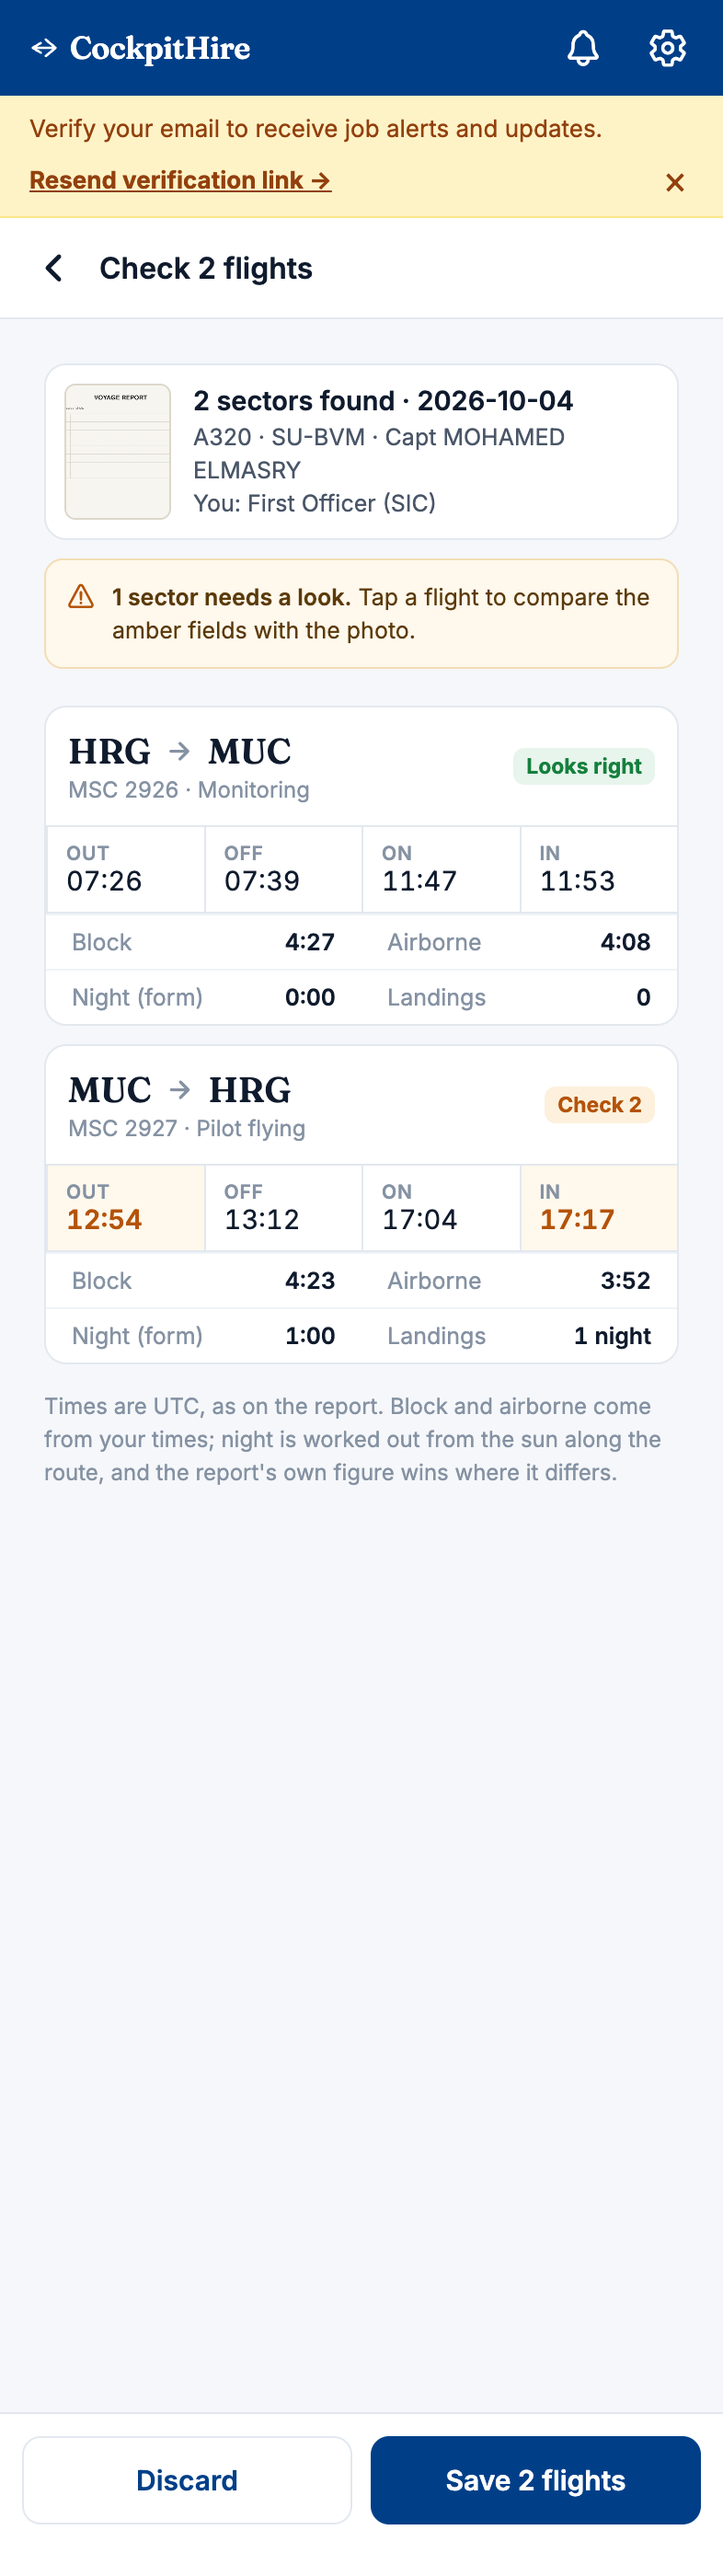
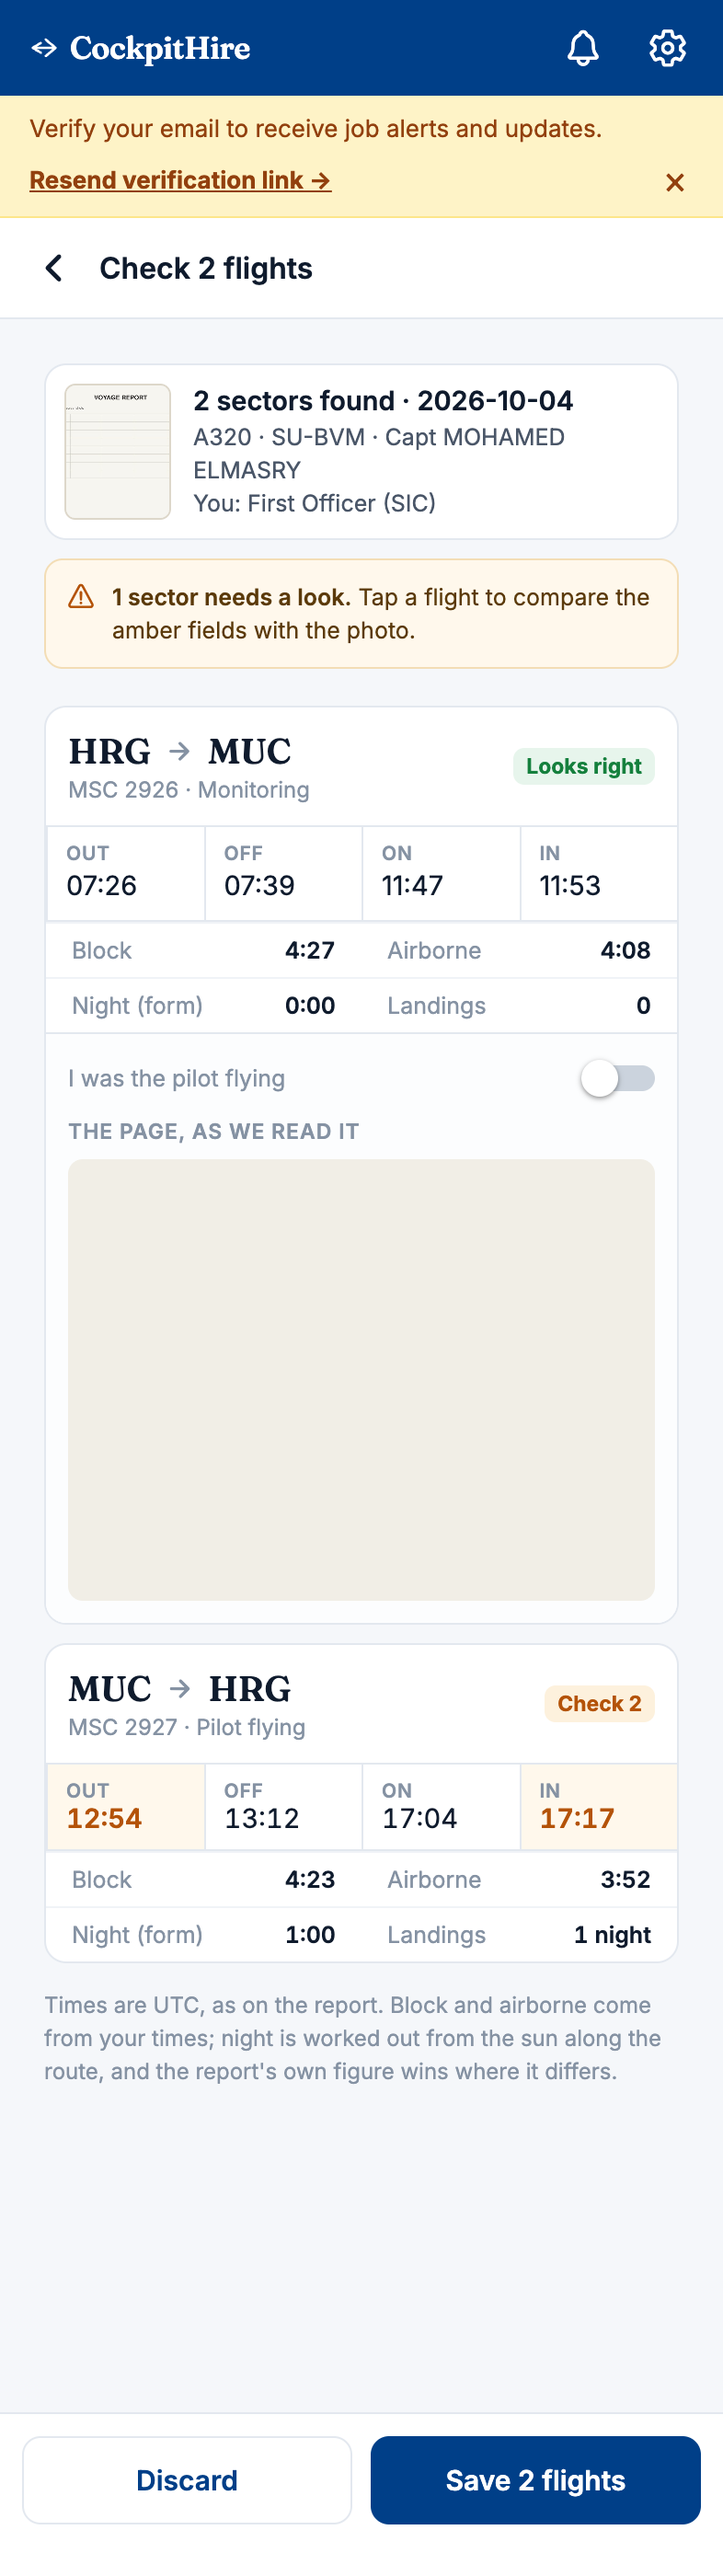
feat(logbook): the scanned page sits under the sector being checked
The mockup's "tap it to compare with the photo" needs the photo. On the web the
page is already beside the form; in the app an expanded sector now shows the
straightened page it was read from, fetched with the session token.

diff --git a/mobile/app/(app)/logbook/scan.tsx b/mobile/app/(app)/logbook/scan.tsx
@@ -39,6 +39,10 @@ export default function ScanVoyageReport() {
   const [saving, setSaving] = useState(false);
   const [result, setResult] = useState<Any>(null);
   const [expanded, setExpanded] = useState<number | null>(null);
+  // The straightened page, fetched with the session token, so an amber field can
+  // be checked against what the camera actually saw.
+  const [token, setToken] = useState<string | null>(null);
+  useEffect(() => { getToken().then(setToken); }, []);
 
   useEffect(() => { api.get('/logbook/scan-quota').then(({ data }) => setQuota(data)).catch(() => {}); }, []);
 
@@ -291,6 +295,16 @@ export default function ScanVoyageReport() {
                   {s.duplicate ? (
                     <Text style={styles.whyLine}>This sector is already in your logbook, so it will be skipped.</Text>
                   ) : null}
+                  {token ? (
+                    <>
+                      <Text style={styles.compare}>The page, as we read it</Text>
+                      <Image
+                        source={{ uri: `${API_URL}/logbook/scan/${scan.id}/image`, headers: { Authorization: `Bearer ${token}` } }}
+                        style={styles.page}
+                        resizeMode="contain"
+                      />
+                    </>
+                  ) : null}
                 </View>
               ) : null}
             </View>
@@ -369,6 +383,8 @@ const createStyles = (pilot: ThemePalette) => StyleSheet.create({
   whyLine: { fontSize: 12.5, lineHeight: 18, color: AMBER, fontFamily: fontFamilies.body },
   pfRow: { flexDirection: 'row', alignItems: 'center', justifyContent: 'space-between', marginTop: 2 },
 
+  compare: { fontSize: 11.5, fontFamily: fontFamilies.bodySemiBold, color: pilot.faint, textTransform: 'uppercase', letterSpacing: 0.5, marginTop: 4 },
+  page: { width: '100%', height: 240, borderRadius: 8, backgroundColor: '#F1EEE6' },
   note: { fontSize: 12, color: pilot.faint, fontFamily: fontFamilies.body, marginTop: 14, lineHeight: 18 },
   fixed: { position: 'absolute', left: 0, right: 0, bottom: 0, flexDirection: 'row', gap: 10, padding: 12, paddingBottom: 28, backgroundColor: pilot.surface, borderTopWidth: 1, borderTopColor: pilot.line },
 
